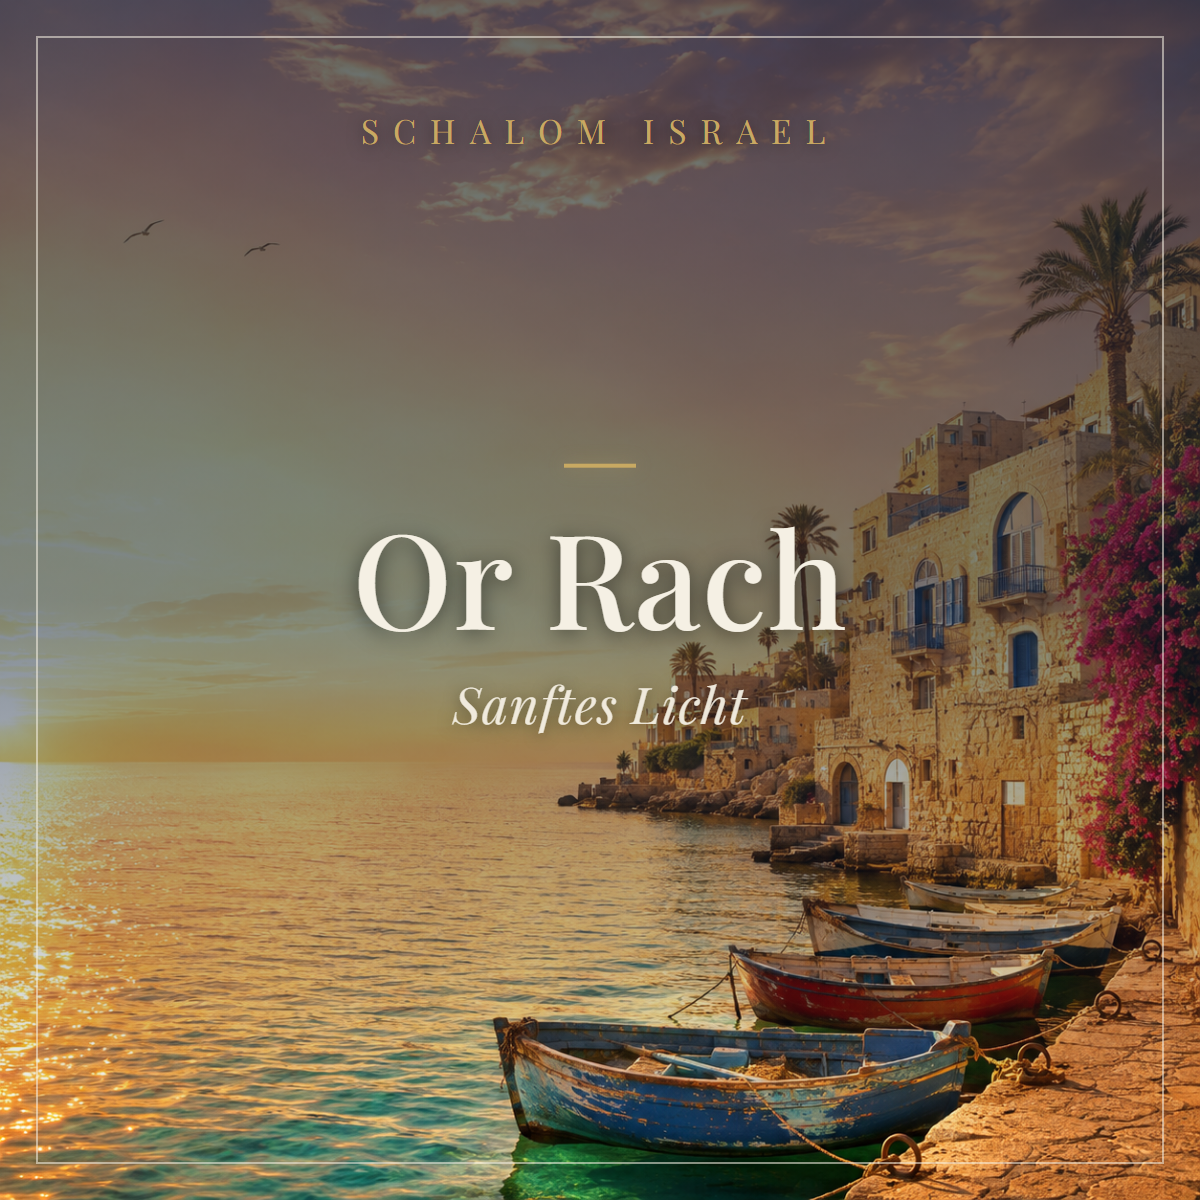
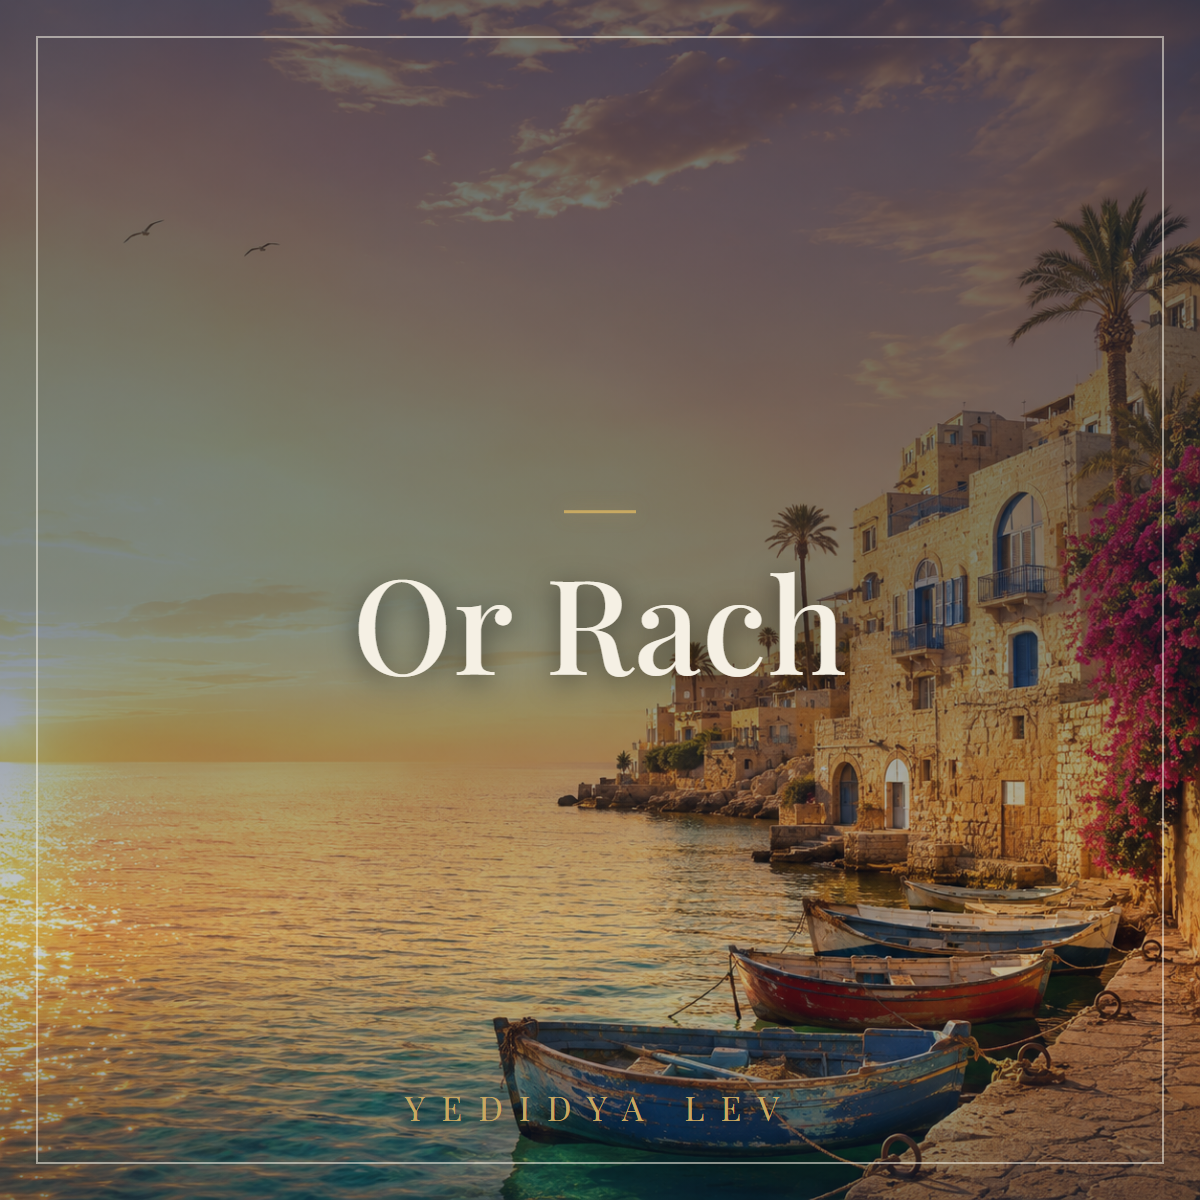
content(musik): Uebersicht ueberarbeitet + einheitliche Minimal-Cover
- Hero: "Schalom Israel" / gross "Musik" / beschreibender Willkommenstext
- Or Rach + Be'Jadcha: neue Minimal-Cover (Jaffa / Negev-Kueste) im
  selben Stil wie Simchat Chaim, auch auf den Unterseiten eingebunden
- Or Rach + Be'Jadcha Buttons "Bald verfuegbar" (noch ohne Ziel)
- Yedidya Lev klein + rund mit Name direkt unter den Covern
- "Ueber die Musik": allgemeiner, skaliert fuer viele Alben
- Footer ergaenzt, Meta-Description zukunftssicher

diff --git a/musik/index.html b/musik/index.html
@@ -5,9 +5,9 @@
   <link rel="icon" type="image/svg+xml" href="/favicon.svg">
   <meta name="viewport" content="width=device-width, initial-scale=1.0">
   <title>Musik | Schalom Israel</title>
-  <meta name="description" content="Drei hebräische Alben von Yedidya Lev: Simchat Chaim (Lebensfreude), Or Rach (sanftes Licht) und Be'Jadcha (in Deiner Hand). Mediterraner Klang, hebräische Texte.">
+  <meta name="description" content="Hebräische Lieder mit der Stimmung Israels: Lebensfreude und Tiefgang, Fest und Stille. Der Musik-Bereich von Schalom Israel, gesungen von Yedidya Lev.">
   <meta property="og:title" content="Musik | Schalom Israel">
-  <meta property="og:description" content="Drei hebräische Alben von Yedidya Lev: Simchat Chaim, Or Rach und Be'Jadcha.">
+  <meta property="og:description" content="Hebräische Lieder mit der Stimmung Israels, gesungen von Yedidya Lev.">
   <meta property="og:image" content="https://www.schalomisrael.de/musik/simchat-chaim/cover.png">
   <meta property="og:url" content="https://www.schalomisrael.de/musik/">
   <meta property="og:type" content="website">
@@ -28,10 +28,9 @@
   <!-- ===== HERO ===== -->
   <header class="mu-hero">
     <div class="mu-hero-inner">
-      <p class="mu-eyebrow">Schalom Israel · Musik</p>
-      <h1 class="mu-hero-title">Drei Alben.</h1>
-      <p class="mu-hero-subtitle">Hebräisch, gesungen von Yedidya Lev.</p>
-      <p class="mu-hero-lead">Lebensfreude, sanftes Licht und Hingabe nach dem Verlust. Drei eigenständige Alben, getragen von einer warmen Männerstimme und mediterranen Instrumenten.</p>
+      <p class="mu-eyebrow">Schalom Israel</p>
+      <h1 class="mu-hero-title">Musik</h1>
+      <p class="mu-hero-lead">Hebräische Lieder mit der Stimmung Israels: Lebensfreude und Tiefgang, Fest und Stille, Wüste und Meer. Willkommen im Musik-Bereich von Schalom Israel.</p>
     </div>
   </header>
 
@@ -49,36 +48,62 @@
     </article>
 
     <article class="mu-card">
-      <a href="/musik/or-rach/" class="mu-card-cover">
+      <div class="mu-card-cover">
         <img src="or-rach/cover.png" alt="Cover Or Rach — Sanftes Licht" loading="lazy">
-      </a>
+      </div>
       <h2 class="mu-card-title">Or Rach</h2>
       <p class="mu-card-subtitle">Sanftes Licht</p>
-      <p class="mu-card-desc">Zwanzig leise Lieder im mediterranen Chill-out-Klang, nah am Idan Raichel Project.</p>
-      <a href="/musik/or-rach/" class="mu-card-cta">Hören &amp; kaufen</a>
+      <p class="mu-card-desc">Zwanzig entspannte Lieder im mediterranen Chill-out-Klang.</p>
+      <span class="mu-card-cta-soon">Bald verfügbar</span>
     </article>
 
     <article class="mu-card">
-      <a href="/musik/be-jadcha/" class="mu-card-cover">
+      <div class="mu-card-cover">
         <img src="be-jadcha/cover.png" alt="Cover Be'Jadcha — In Deiner Hand" loading="lazy">
-      </a>
+      </div>
       <h2 class="mu-card-title">Be'Jadcha</h2>
       <p class="mu-card-subtitle">In Deiner Hand</p>
       <p class="mu-card-desc">Zwanzig Lieder über Verlust und Hingabe, von der ersten Erschütterung bis zur Ruhe in Gottes Hand.</p>
-      <a href="/musik/be-jadcha/" class="mu-card-cta">Hören &amp; kaufen</a>
+      <span class="mu-card-cta-soon">Bald verfügbar</span>
     </article>
 
   </section>
+
+  <!-- ===== KÜNSTLER-ZEILE ===== -->
+  <div class="mu-byline">
+    <img src="yedidya.jpg" alt="Yedidya Lev">
+    <span>Yedidya Lev</span>
+  </div>
 
   <!-- ===== INTRO-BLOCK ===== -->
   <section class="mu-intro">
     <div class="mu-intro-inner">
       <p class="mu-intro-eyebrow">Über die Musik</p>
-      <h2>Hebräisch, von einer Stimme getragen.</h2>
       <p>Hebräisch ist die Sprache, in der Israel betet, klagt und feiert. Man muss sie nicht verstehen, um sie zu spüren.</p>
-      <p>Alle drei Alben singt Yedidya Lev. Eine warme Männerstimme, nah am Mikrofon, nie laut, nie theatralisch. Die Freude und die Schwere kommen von der Sache, nicht von der Lautstärke.</p>
+      <p>Seit jeher trägt Musik das, wofür Worte allein nicht reichen. In Israel klingt sie nach Wüstenwind und Meer, nach Schabbat-Tisch und Hochzeit, nach Klage und Dank. Mal hebt sie an zum Tanz, mal wird sie ganz still. Genau diese Stimmung wollen die Lieder hier hörbar machen: einen Klang, in dem Freude und Ernst nebeneinander Platz haben.</p>
+      <p>Such dir ein Album aus, dreh es etwas lauter und lass dich hineinfallen.</p>
     </div>
   </section>
+
+  <footer class="footer">
+    <div class="container">
+      <p class="footer-logo">Schalom <strong>Israel</strong></p>
+      <nav class="footer-nav footer-nav-primary">
+        <a href="/unterstuetzen">Unterstütze das Projekt</a>
+        <span>·</span>
+        <a href="/newsletter">Newsletter abonnieren</a>
+        <span>·</span>
+        <a href="/warum-schalom-israel">Über Schalom Israel</a>
+      </nav>
+      <nav class="footer-nav">
+        <a href="/kontakt">Kontakt</a>
+        <span>·</span>
+        <a href="/datenschutzerklaerung">Datenschutzerklärung</a>
+        <span>·</span>
+        <a href="/impressum">Impressum</a>
+      </nav>
+    </div>
+  </footer>
 
 </body>
 </html>

diff --git a/musik/page.css b/musik/page.css
@@ -123,6 +123,42 @@ body.mu-page { line-height: 1.7; }
   background: var(--gold);
   color: var(--navy);
 }
+.mu-card-cta-soon {
+  display: inline-block;
+  padding: 0.7rem 1.6rem;
+  border: 1px solid rgba(200,169,98,0.30);
+  color: var(--text-muted);
+  font-family: 'Inter', sans-serif;
+  font-size: 0.85rem;
+  letter-spacing: 0.2em;
+  text-transform: uppercase;
+  border-radius: var(--radius);
+  cursor: default;
+}
+
+/* Künstler-Zeile direkt unter den Covern: klein, rund, nur der Name */
+.mu-byline {
+  display: flex;
+  align-items: center;
+  justify-content: center;
+  gap: 0.7rem;
+  margin: -2.5rem auto 0;
+  padding: 0 1.5rem 1rem;
+}
+.mu-byline img {
+  width: 44px;
+  height: 44px;
+  border-radius: 50%;
+  object-fit: cover;
+  object-position: center 22%;
+  border: 1px solid rgba(200,169,98,0.5);
+}
+.mu-byline span {
+  font-family: 'EB Garamond', Georgia, serif;
+  font-style: italic;
+  font-size: 1.05rem;
+  color: var(--gold-light);
+}
 
 /* ===== Intro-Block (warum hebräisch / männerstimme) ===== */
 .mu-intro {
